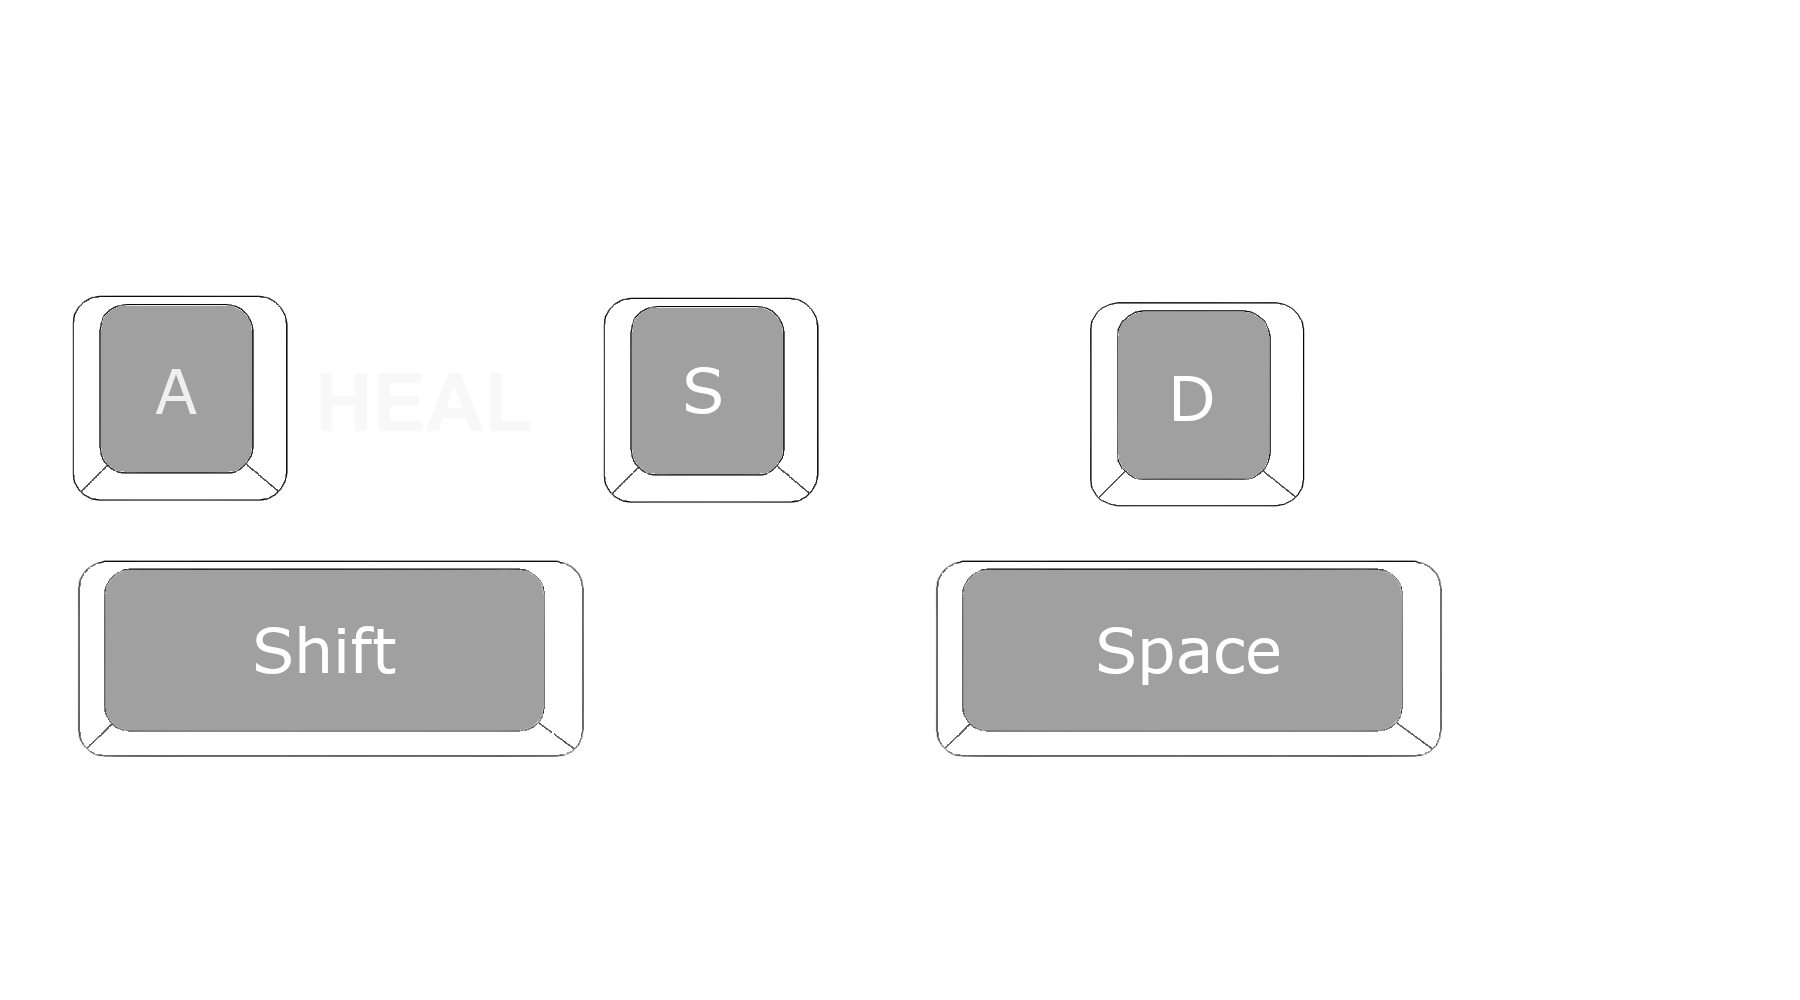
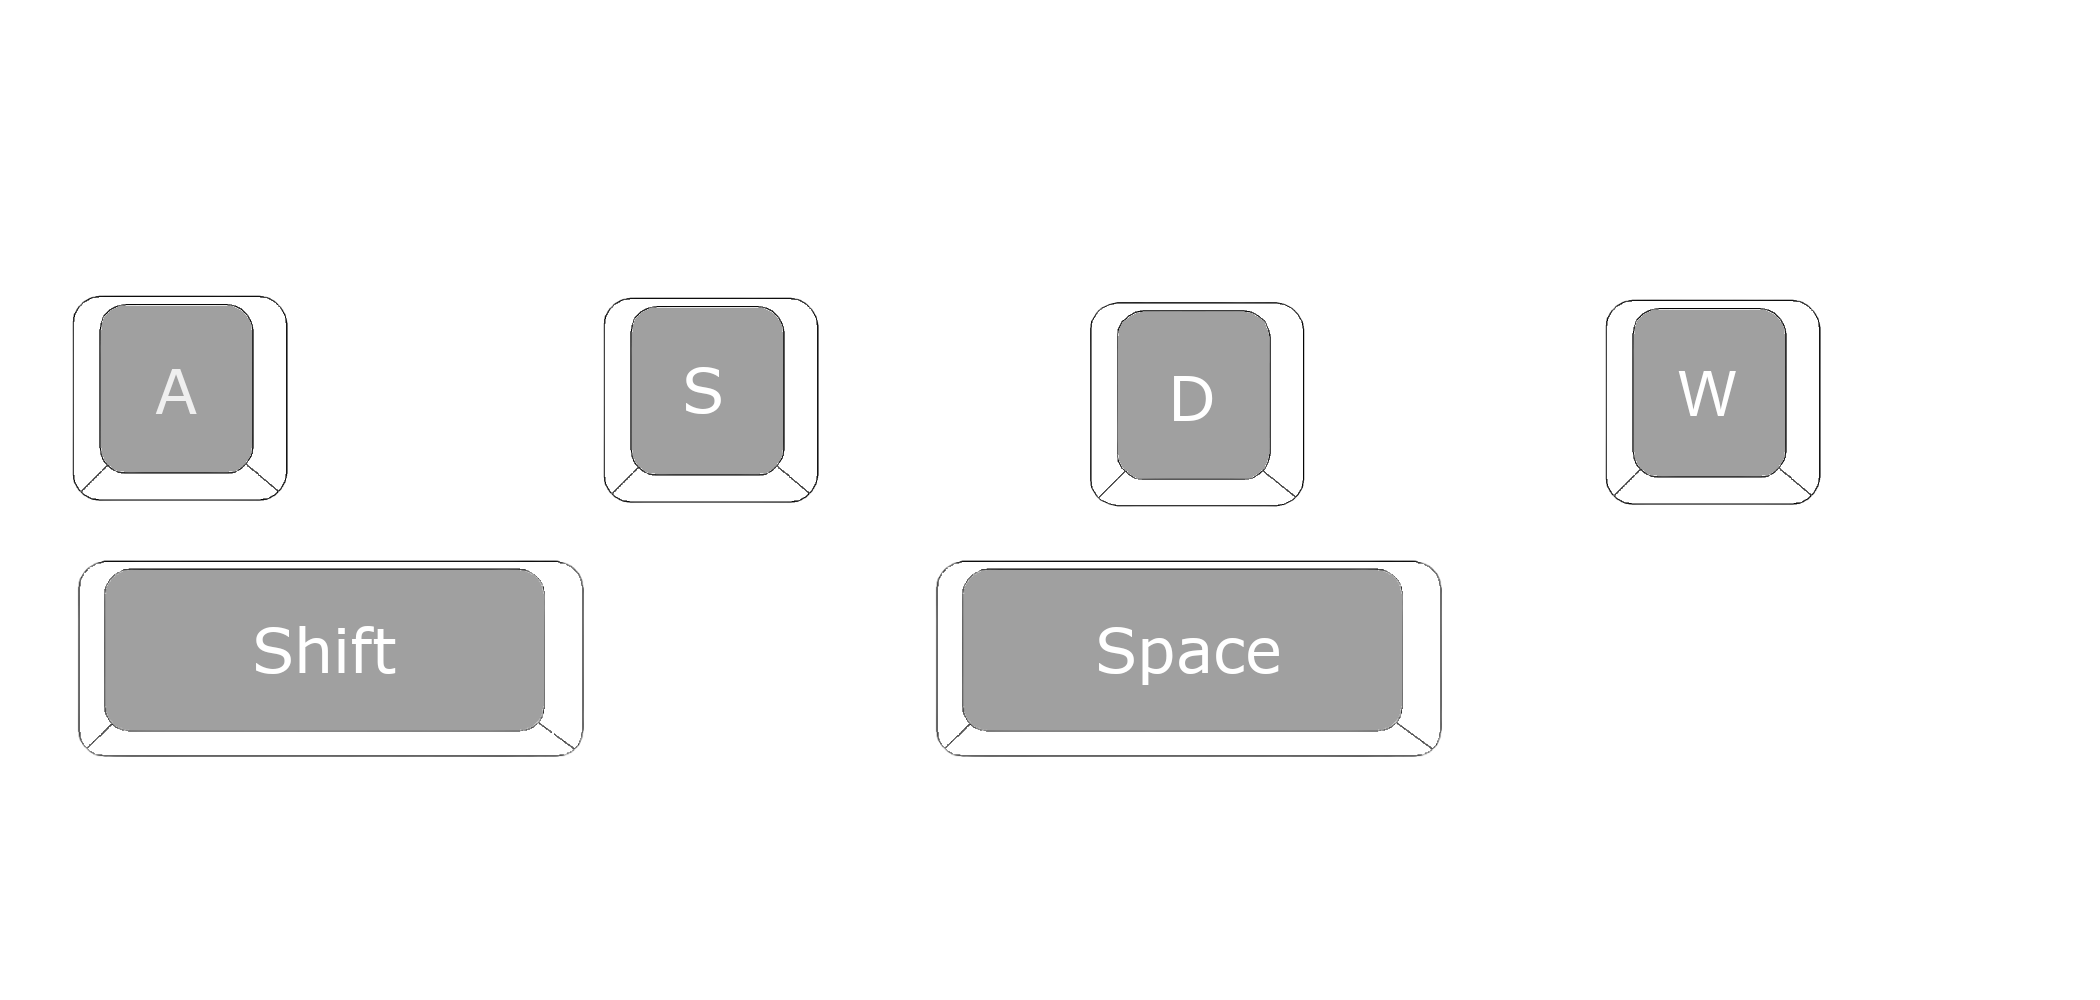
changes

diff --git a/235/Project3/js/classes.js b/235/Project3/js/classes.js
@@ -37,6 +37,7 @@ class Player extends PIXI.AnimatedSprite{
     healthTime = 0;
     shieldCharge = 6;
     healTimetoNext = 40;
+    runReverse = false;
 
     //checks if the player can attack before attackinh
     attackCharge(){
@@ -134,7 +135,12 @@ class Player extends PIXI.AnimatedSprite{
     //sets the player to a roll right state
     runRight(){
         this.state = "runRight";
-        this.textures = this.animations.run;
+            this.textures = this.animations.run;
+    }
+    //sets the player to a roll right state
+    runLeft(){
+        this.state = "runLeft";
+            this.textures = this.animations.runLeft;
     }
     //call in gameloop
     playerUpdate(dt){
@@ -159,23 +165,23 @@ class Player extends PIXI.AnimatedSprite{
             case "idle":
 
  
+
                 if(keys[keyboard.SPACE]){
                     this.attackCharge();
                 }
                 else if (keys[keyboard.SHIFT]){
                     this.shield();
                 }
-                /*
-                else if (keys[keyboard.LEFT]){
-                    this.state = "runLeft";
-                    this.textures = this.animations.run;
-                    }*/
-                else if(keys[keyboard.RIGHT]){
+                
+                else if (keys[keyboard.LEFT]&& !keys[keyboard.RIGHT]){
+                    this.runLeft();
+                    }
+                else if(keys[keyboard.RIGHT] && !keys[keyboard.LEFT ]){
                     this.runRight();
                 }
                 else if (keys[keyboard.S]){
                 this.roll();}
-                else if (keys[keyboard.A]){
+                else if (keys[keyboard.W]){
                     this.heal();
                 }
                 break;
@@ -200,46 +206,73 @@ class Player extends PIXI.AnimatedSprite{
                 this.scale.x = 2.5;
 
                 //breaks out
-
-                /*if (keys[keyboard.LEFT] && !keys[keyboard.RIGHT]){
-                this.state = "runLeft";
-                this.textures = this.animations.run;
-                }*/
-                 if(!keys[keyboard.RIGHT]){
+                if(keys[keyboard.RIGHT] && keys[keyboard.LEFT]){
+                    this.state = "idle";
+                    this.textures = this.animations.idle;
+                }
+                else if(!keys[keyboard.RIGHT]){
                     this.state = "idle";
                     this.textures = this.animations.idle;
                 }
                 else if (keys[keyboard.S]){
                     this.roll();
                 }
+                else if (keys[keyboard.SHIFT]){
+                    this.shield();
+                }
                 else if(keys[keyboard.SPACE]){
                     this.attackCharge();
                 }
-                else if (keys[keyboard.A]){
+                else if (keys[keyboard.W]){
                     this.heal();
                 }
+                else if (keys[keyboard.LEFT]){
+                    this.runLeft();
+                    }
 
                 break;
 
             case "runLeft":
-                this.scale.x = -2.5;
                 this.dx -= 100;
 
-                if(keys[keyboard.RIGHT] && !keys[keyboard.LEFT]){
-                    this.state = "runRight";
-                    this.textures = this.animations.run;
+                this.runTime += dt;
+                if(this.runTime > .35){
+
+                    if(this.prevSound == 0){
+                        this.sounds["foot1"].play();
+                        this.prevSound = 1;
+                    }
+                    else{
+                        this.sounds["foot2"].play();
+                        this.prevSound = 0;
+                    }
+                    this.runTime = 0;
                 }
-                else if(!keys[keyboard.LEFT]){
+                //breaks out
+                  //breaks out
+                  if(keys[keyboard.RIGHT] && keys[keyboard.LEFT]){
+                    this.state = "idle";
+                    this.textures = this.animations.idle;
+                }
+               else if(!keys[keyboard.LEFT]){
                     this.state = "idle";
                     this.textures = this.animations.idle;
                 }
                 else if (keys[keyboard.S]){
-                    this.state = "roll";
-                    this.textures = this.animations.roll;
-                    this.rollDirection = -100;
+                    this.roll();
                 }
-
-
+                else if (keys[keyboard.SHIFT]){
+                    this.shield();
+                }
+                else if(keys[keyboard.SPACE]){
+                    this.attackCharge();
+                }
+                else if (keys[keyboard.W]){
+                    this.heal();
+                } 
+                else if (keys[keyboard.RIGHT]){
+                    this.runLeft();
+                    }
                 break;
 
             case "attack":
@@ -436,6 +469,8 @@ class Player extends PIXI.AnimatedSprite{
         this.health = getRandom(0,2);
         this.sounds = sounds;
         this.rng =  Math.floor(Math.random() * 2);
+        this.tint = 0xffcccb;
+
     }
 
     //sets the hurt state/check for death

diff --git a/235/Project3/js/main.js b/235/Project3/js/main.js
@@ -12,7 +12,6 @@ let paused = true;
         
     });
     document.body.appendChild(app.view);
-    
     // constants
     const sceneWidth = app.view.width;
     const sceneHeight = app.view.height;	
@@ -32,8 +31,8 @@ const keyboard = Object.freeze({
     RIGHT: 39,
     DOWN: 40,
     S: 83,
-    A:65
-
+    A:65,
+    W:87
 });
 
 // pre-load the images
@@ -269,6 +268,7 @@ function setup(){
     let textures = [];
     textures["idle"] = loadSpriteSheet(4, "idle");
     textures["run"] = loadSpriteSheet(6,"run");
+    textures["runLeft"] = loadSpriteSheet(6,"runLeft");
     textures["attack1"] = loadSpriteSheet(5, "attack1");
     textures["attack2"] = loadSpriteSheet(7, "attack2");
     textures["attack3"] = loadSpriteSheet(9, "attack3");
@@ -312,6 +312,9 @@ function loadSpriteSheet(numFrames, sprite){
     //will likely refactor this eventually
     if(sprite == "run"){
         spriteSheet = PIXI.BaseTexture.from(app.loader.resources.runSprites.url);
+    }
+    else if(sprite == "runLeft"){
+        spriteSheet = PIXI.BaseTexture.from(app.loader.resources.runSpritesReverse.url);
     }
     else if (sprite == "attack1"){
         spriteSheet = PIXI.BaseTexture.from(app.loader.resources.attack1.url);
@@ -812,6 +815,9 @@ window.onkeyup = (e) => {
     if(c == "A" || c == "a"){
         keys[keyboard.A] = false;
     }
+    if(c == "W" || c == "w"){
+        keys[keyboard.W] = false;
+    }
 };
 
 //pressed
@@ -838,6 +844,9 @@ window.onkeydown = (e) => {
     }
     if(c == "A" || c == "a"){
         keys[keyboard.A] = true;
+    }
+    if(c == "W" || c == "w"){
+        keys[keyboard.W] = true;
     }
 
 };

diff --git a/235/Project3/js/loader.js b/235/Project3/js/loader.js
@@ -16,6 +16,7 @@ app.loader
         .add("8", "images/Sunset/8.png")
 app.loader.add("idleSprites", "images/playerAnimations/idle.png");
 app.loader.add("runSprites", "images/playerAnimations/run.png");
+app.loader.add("runSpritesReverse", "images/playerAnimations/runLeft.png");
 app.loader.add("attack1", "images/playerAnimations/attack1.png");
 app.loader.add("attack2", "images/playerAnimations/attack2.png");
 app.loader.add("attack3", "images/playerAnimations/attack3.png");
